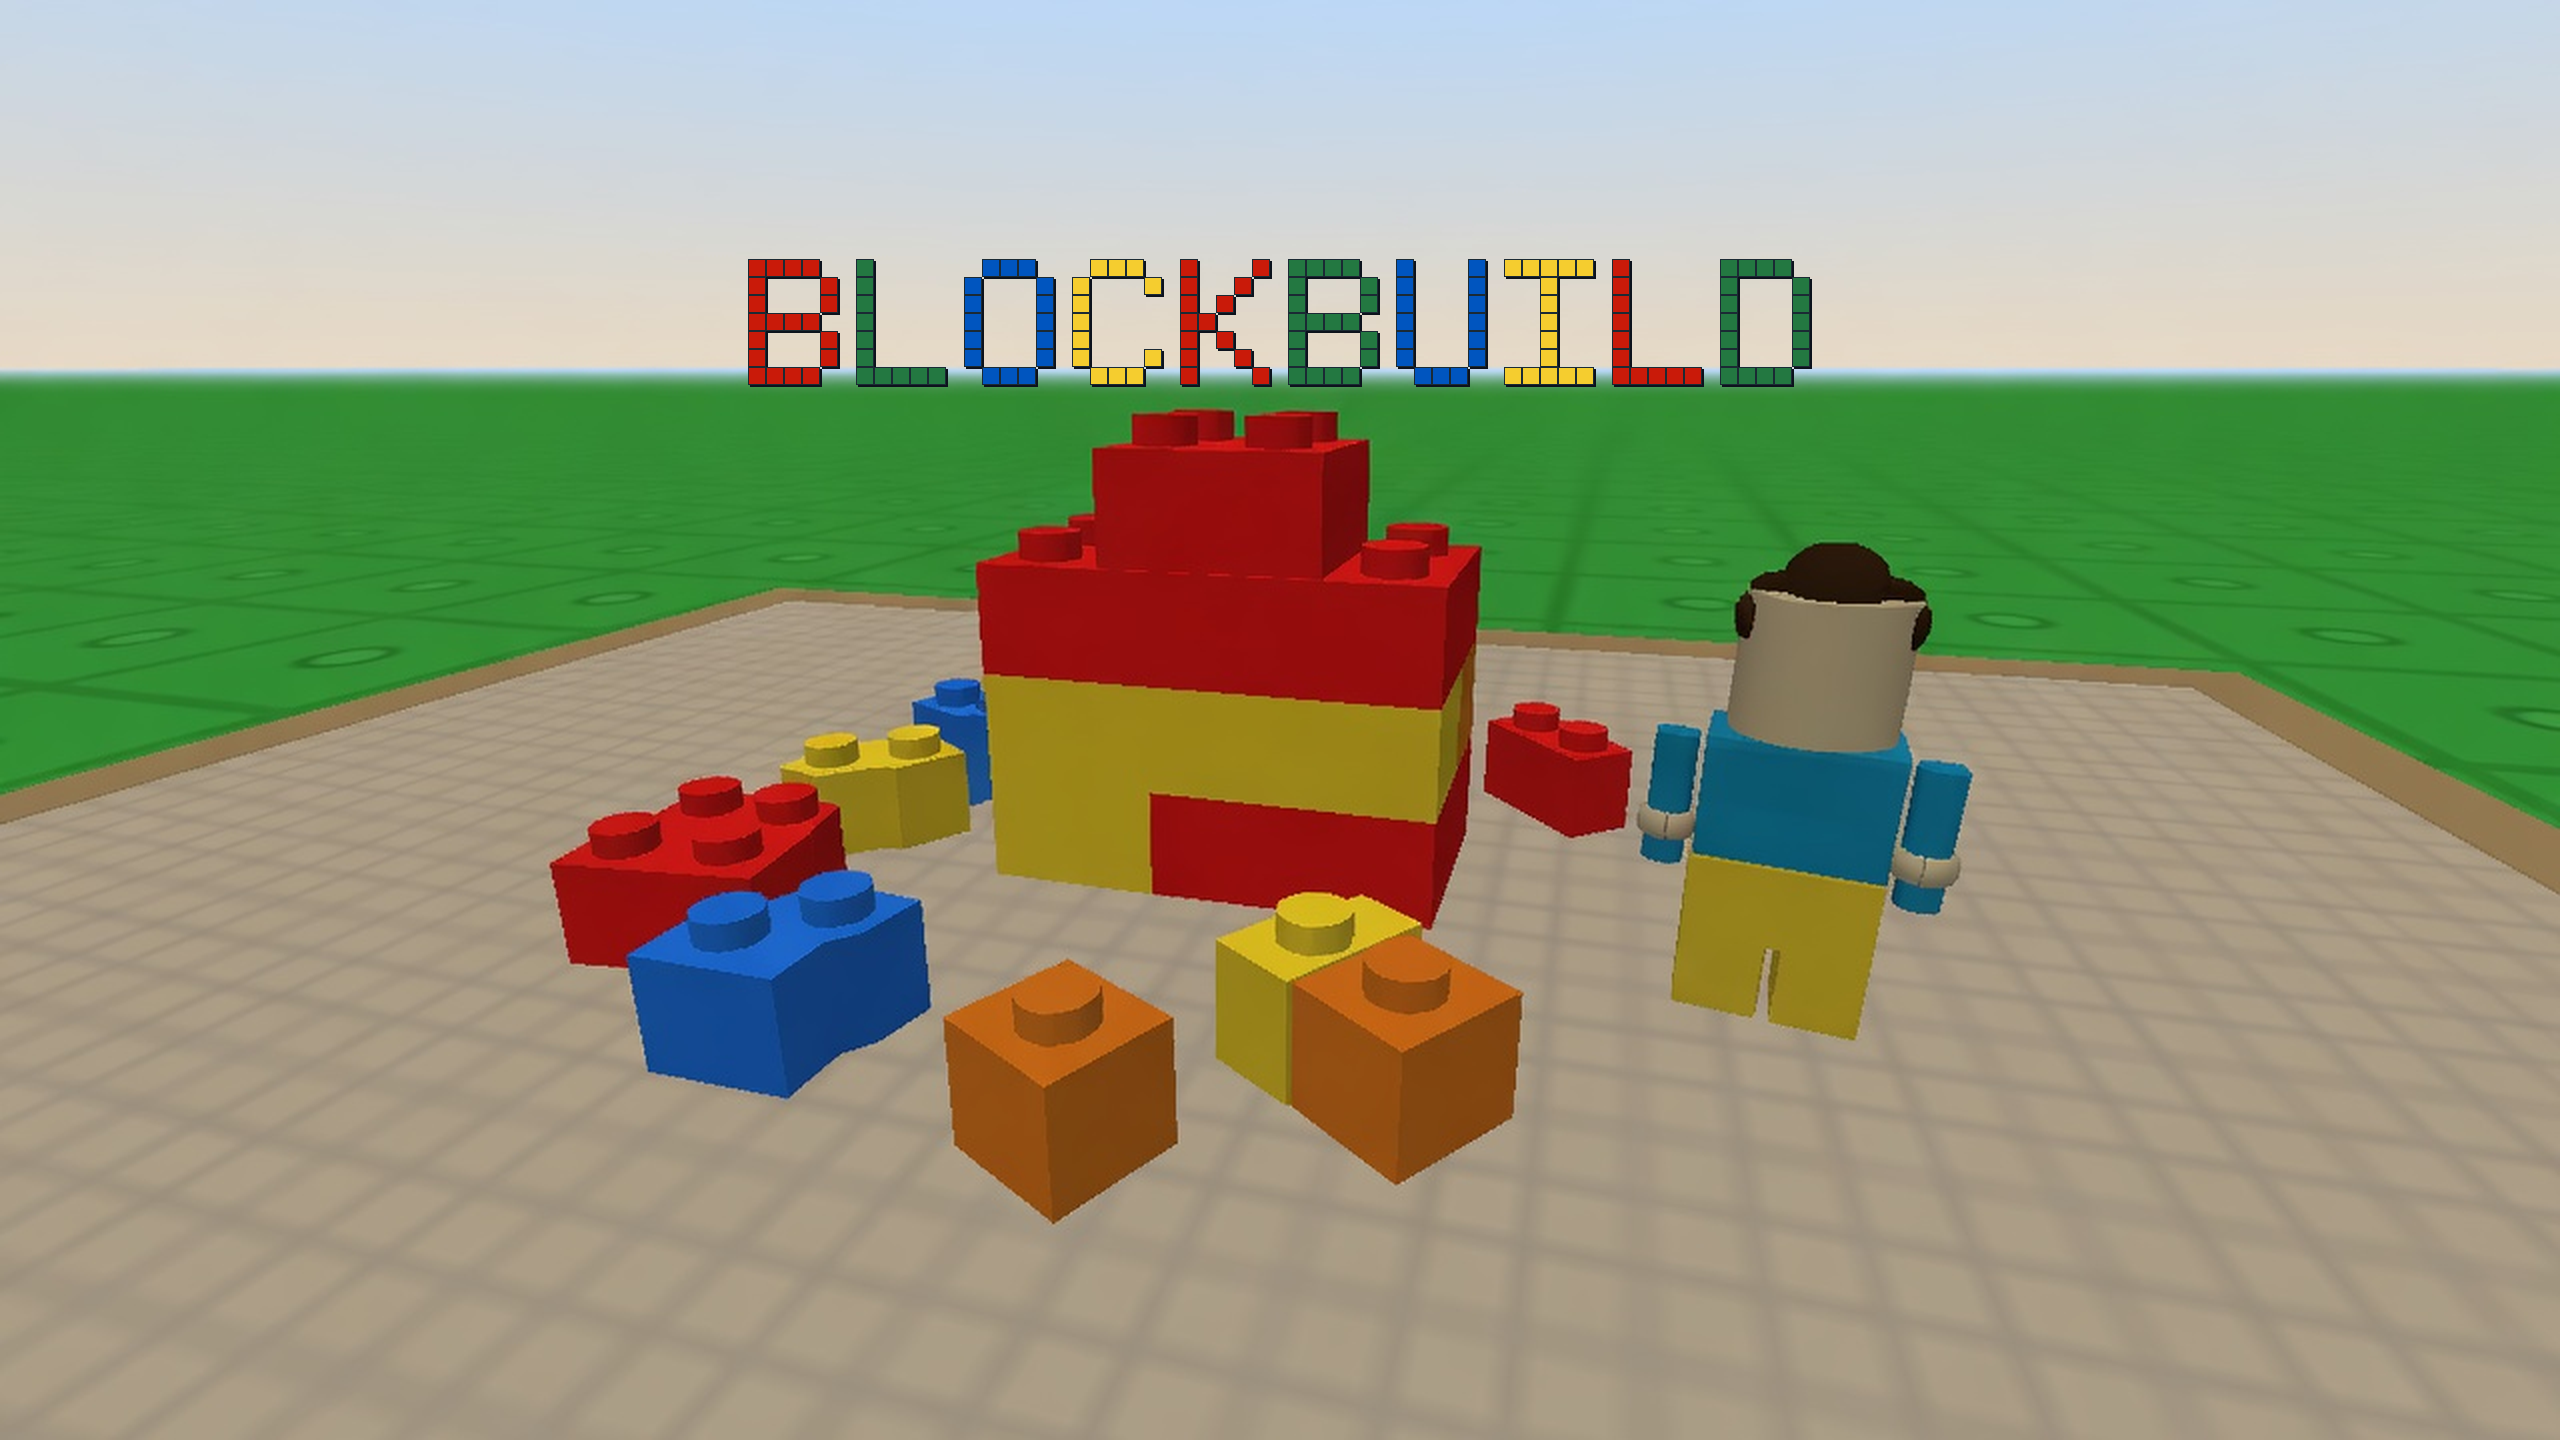
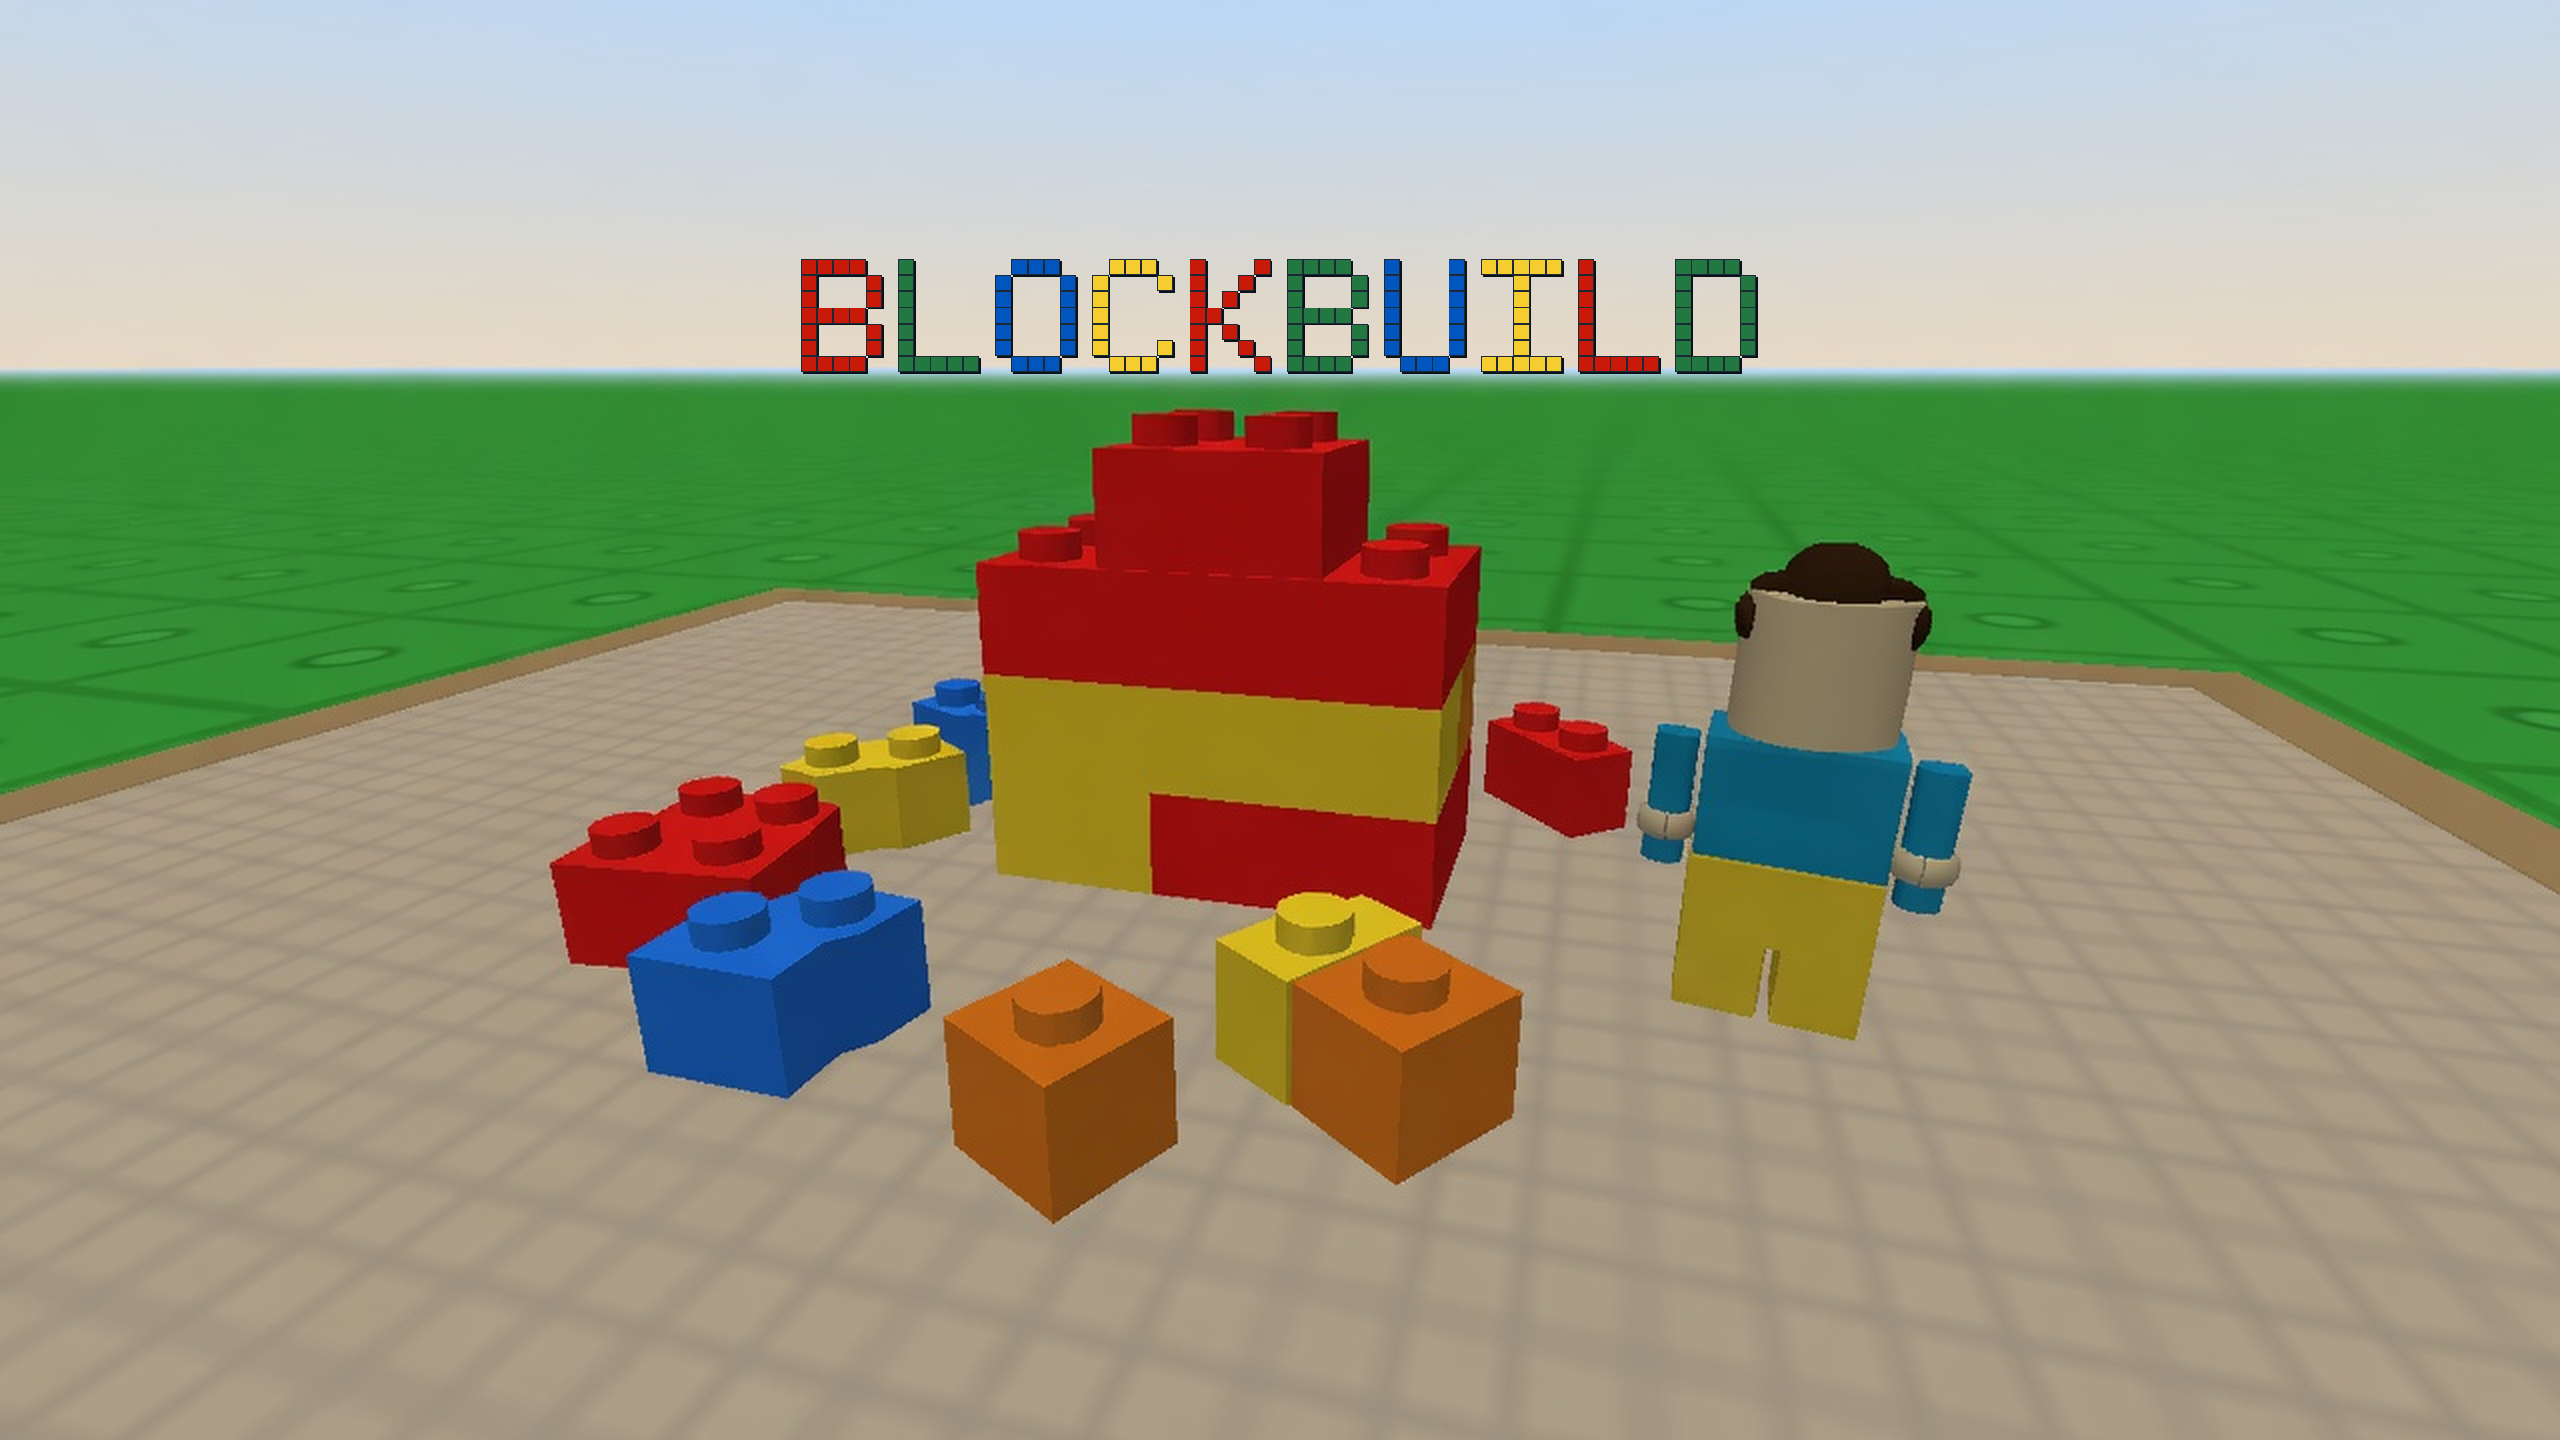
Shrink Blockbuild title 10% on the universal cover.

Changed region(s): [[0.2812, 0.1562, 0.7188, 0.2812]]

diff --git a/public/bbqst-h8k2m9q4/store/compose_art.py b/public/bbqst-h8k2m9q4/store/compose_art.py
@@ -89,11 +89,16 @@ def render_block_text(text: str, cell: int, fill=(245, 205, 47), outline=(27, 42
     return img.crop(bbox) if bbox else img
 
 
-def paste_title(base: Image.Image, y_frac: float, cell: int | None = None) -> Image.Image:
+def paste_title(base: Image.Image, y_frac: float, cell: int | None = None, scale: float = 1.0) -> Image.Image:
     img = base.convert("RGBA")
     if cell is None:
         cell = max(8, img.size[0] // 92)
     title = render_block_text(TITLE, cell)
+    if scale != 1.0:
+        title = title.resize(
+            (max(1, int(title.size[0] * scale)), max(1, int(title.size[1] * scale))),
+            Image.Resampling.NEAREST,
+        )
     max_w = int(img.size[0] * 0.78)
     if title.size[0] > max_w:
         nh = int(title.size[1] * max_w / title.size[0])
@@ -139,7 +144,7 @@ def main() -> None:
     square = Image.open(SESS / "5.jpg")
     port = Image.open(SESS / "6.jpg")
 
-    universal = paste_title(cover(land, (2560, 1440), (0.5, 0.50)), 0.22, cell=18)
+    universal = paste_title(cover(land, (2560, 1440), (0.5, 0.50)), 0.22, cell=18, scale=0.9)
     save_rgb(universal, "cover-landscape-2560x1440.png")
     save_rgb(universal, "blockbuild-universal-basic-asset.png", extra=[DL_ROOT])
     save_rgb(universal, "universal-basic-asset-2560x1440.png")
